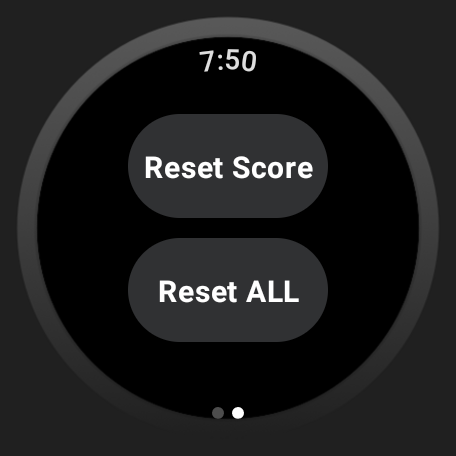
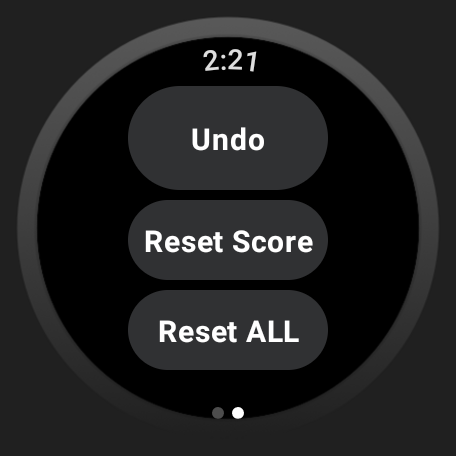
feat: add Undo action to options
Because mistakes happen

Changed region(s): [[0.2763, 0.1842, 0.7368, 0.8289], [0.4298, 0.0921, 0.5833, 0.1535]]

diff --git a/app/src/main/java/volleyballscore/screens/OptionsScreen.kt b/app/src/main/java/volleyballscore/screens/OptionsScreen.kt
@@ -5,6 +5,7 @@ import androidx.compose.foundation.layout.Arrangement
 import androidx.compose.foundation.layout.Box
 import androidx.compose.foundation.layout.Column
 import androidx.compose.foundation.layout.fillMaxSize
+import androidx.compose.foundation.layout.height
 import androidx.compose.foundation.layout.size
 import androidx.compose.foundation.layout.width
 import androidx.compose.foundation.pager.PagerState
@@ -26,7 +27,7 @@ import kotlinx.coroutines.launch
 fun OptionsScreen(
     scrollScope: CoroutineScope,
     pagerState: PagerState,
-    scoreCount: SnapshotStateList<Int>,
+    scoreCount: SnapshotStateList<List<Int>>,
     setCount: SnapshotStateList<Int>,
     serving: SnapshotStateList<Boolean>,
     matchPoint: MutableState<Boolean>
@@ -37,10 +38,35 @@ fun OptionsScreen(
         verticalArrangement = Arrangement.Center,
     ) {
         Button(
-            modifier = Modifier.width(100.dp),
+            modifier = Modifier
+                .width(100.dp),
             colors = ButtonDefaults.secondaryButtonColors(),
             onClick = {
-                scoreCount.replaceAll { 0 }
+                if (scoreCount.size > 1) {
+                    scoreCount.removeAt(scoreCount.lastIndex)
+                    serving.replaceAll { false }
+                }
+                scrollScope.launch { pagerState.animateScrollToPage(0) }
+            },
+        ) {
+            Text(
+                text = "Undo",
+                textAlign = TextAlign.Center
+            )
+        }
+        Box(
+            Modifier.size(
+                5.dp
+            )
+        )
+        Button(
+            modifier = Modifier
+                .width(100.dp)
+                .height(40.dp),
+            colors = ButtonDefaults.secondaryButtonColors(),
+            onClick = {
+                scoreCount.clear()
+                scoreCount.add(listOf(0, 0))
                 serving.replaceAll { false }
                 matchPoint.value = false
                 scrollScope.launch { pagerState.animateScrollToPage(0) }
@@ -53,17 +79,20 @@ fun OptionsScreen(
         }
         Box(
             Modifier.size(
-                10.dp
+                5.dp
             )
         )
         Button(
-            modifier = Modifier.width(100.dp),
+            modifier = Modifier
+                .width(100.dp)
+                .height(40.dp),
             colors = ButtonDefaults.secondaryButtonColors(),
             onClick = {
-                scoreCount.replaceAll { 0 }
-                setCount.replaceAll { 0 }
+                scoreCount.clear()
+                scoreCount.add(listOf(0, 0))
                 serving.replaceAll { false }
                 matchPoint.value = false
+                setCount.replaceAll { 0 }
                 scrollScope.launch { pagerState.animateScrollToPage(0) }
             },
         ) {

diff --git a/app/src/main/java/volleyballscore/components/TeamButton.kt b/app/src/main/java/volleyballscore/components/TeamButton.kt
@@ -16,7 +16,7 @@ import androidx.wear.compose.material.Button
 fun TeamButton(
     modifier: Modifier,
     teamIndex: Int,
-    scoreCount: SnapshotStateList<Int>,
+    scoreCount: SnapshotStateList<List<Int>>,
     setCount: SnapshotStateList<Int>,
     serving: SnapshotStateList<Boolean>,
     matchPoint: MutableState<Boolean>
@@ -34,28 +34,32 @@ fun TeamButton(
         onClick = {
             vibrator.vibrate(clickEffect);
 
+            var currentScore = scoreCount.last().toMutableList();
+
             val otherTeam = teamIndex xor 1;
-            scoreCount[teamIndex]++;
+            currentScore[teamIndex]++;
             serving[teamIndex] = true;
             serving[otherTeam] = false;
 
-            if (scoreCount[teamIndex] >= 25 &&
-                (scoreCount[teamIndex] - scoreCount[otherTeam] >= 2)
+            if (currentScore[teamIndex] >= 25 &&
+                (currentScore[teamIndex] - currentScore[otherTeam] >= 2)
             ) {
-                scoreCount[teamIndex] = 0;
+                currentScore = mutableListOf(0, 0)
+                scoreCount.clear();
                 setCount[teamIndex]++;
-                scoreCount[otherTeam] = 0;
                 serving[teamIndex] = false;
                 serving[otherTeam] = false;
             }
 
-            if ((scoreCount[teamIndex] >= 24 || scoreCount[otherTeam] >= 24) &&
-                (scoreCount[teamIndex] != scoreCount[otherTeam])
+            if ((currentScore[teamIndex] >= 24 || currentScore[otherTeam] >= 24) &&
+                (currentScore[teamIndex] != currentScore[otherTeam])
             ) {
                 matchPoint.value = true
             } else {
                 matchPoint.value = false
             }
+
+            scoreCount.add(currentScore)
         },
         enabled = true,
     ) {}

diff --git a/app/src/main/java/volleyballscore/components/ScoreCounter.kt b/app/src/main/java/volleyballscore/components/ScoreCounter.kt
@@ -11,7 +11,7 @@ import androidx.compose.ui.unit.sp
 import androidx.wear.compose.material.Text
 
 @Composable
-fun ScoreCounter(modifier: Modifier, scoreCount: SnapshotStateList<Int>) {
+fun ScoreCounter(modifier: Modifier, scoreCount: SnapshotStateList<List<Int>>) {
     Row(
         modifier = modifier,
         verticalAlignment = Alignment.CenterVertically,
@@ -22,7 +22,7 @@ fun ScoreCounter(modifier: Modifier, scoreCount: SnapshotStateList<Int>) {
                 .weight(1f),
             textAlign = TextAlign.Right,
             fontSize = 50.sp,
-            text = "${scoreCount[0]}",
+            text = "${scoreCount.last()[0]}",
         )
         Text(
             textAlign = TextAlign.Center,
@@ -33,7 +33,7 @@ fun ScoreCounter(modifier: Modifier, scoreCount: SnapshotStateList<Int>) {
                 .weight(1f),
             textAlign = TextAlign.Left,
             fontSize = 50.sp,
-            text = "${scoreCount[1]}",
+            text = "${scoreCount.last()[1]}",
         )
     }
 }

diff --git a/app/src/main/java/volleyballscore/MainActivity.kt b/app/src/main/java/volleyballscore/MainActivity.kt
@@ -42,7 +42,7 @@ class MainActivity : ComponentActivity() {
 @OptIn(ExperimentalFoundationApi::class)
 @Composable
 fun VolleyballApp() {
-    val scoreCount = remember { mutableStateListOf(0, 0) }
+    val scoreCount = remember { mutableStateListOf(listOf(0, 0)) }
     val setCount = remember { mutableStateListOf(0, 0) }
     val serving = remember { mutableStateListOf(false, false) }
     val matchPoint = remember { mutableStateOf(false) }

diff --git a/app/src/main/java/volleyballscore/screens/MainScreen.kt b/app/src/main/java/volleyballscore/screens/MainScreen.kt
@@ -25,7 +25,7 @@ import volleyballscore.components.TeamsNames
 
 @Composable
 fun MainScreen(
-    scoreCount: SnapshotStateList<Int>,
+    scoreCount: SnapshotStateList<List<Int>>,
     setCount: SnapshotStateList<Int>,
     serving: SnapshotStateList<Boolean>,
     matchPoint: MutableState<Boolean>
